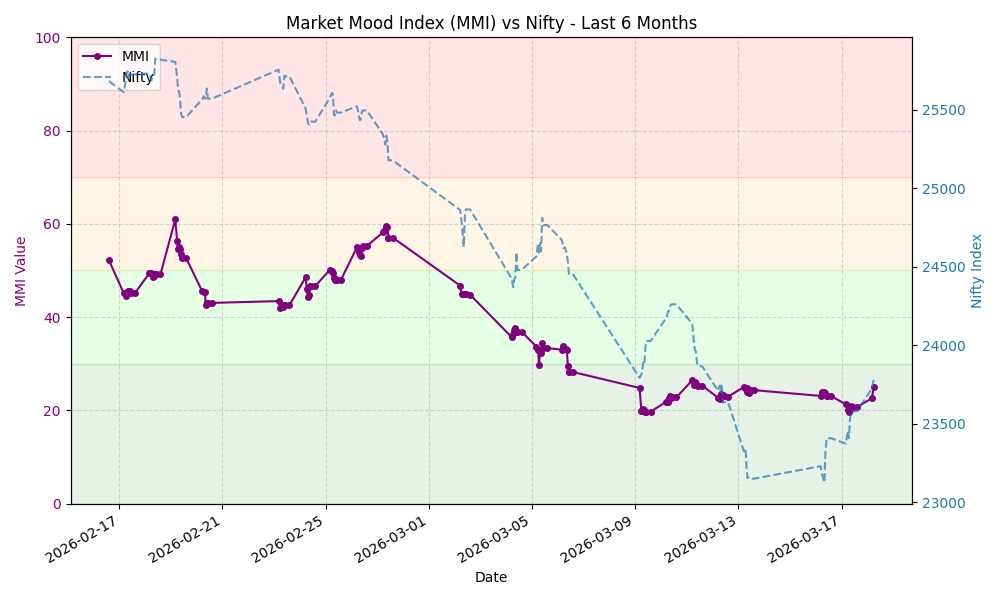
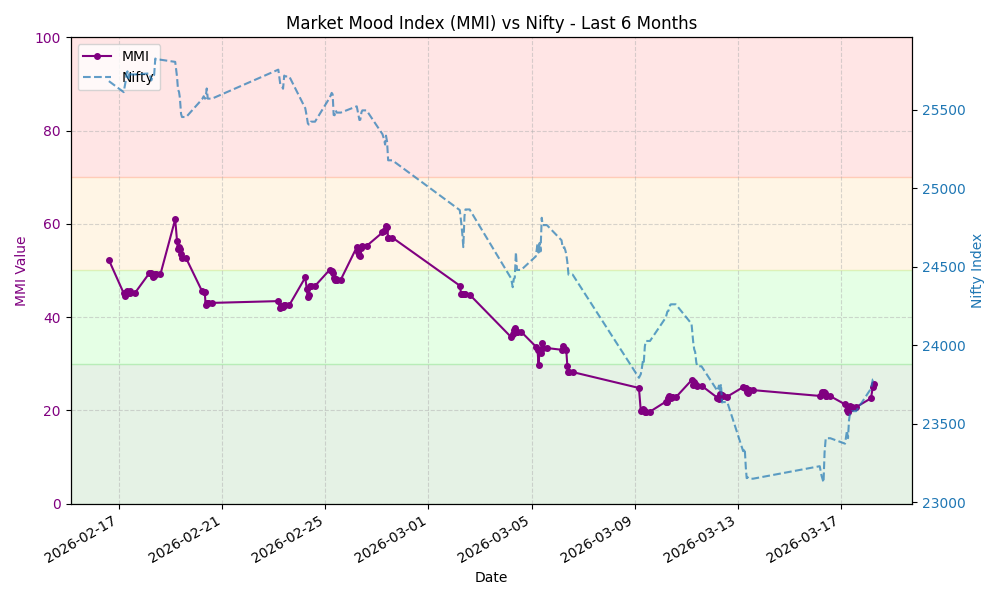
Update MMI data and chart

diff --git a/README.md b/README.md
@@ -7,8 +7,8 @@ This repository automatically fetches the MMI value, stores the history, and gen
 
 ## Latest MMI Value
 
-**24.97** - **Extreme Fear**
-<small>Last Updated: 2026-03-18 05:54 UTC</small>
+**25.71** - **Extreme Fear**
+<small>Last Updated: 2026-03-18 06:45 UTC</small>
 
 ## MMI Trend (Last 30 Days)
 
